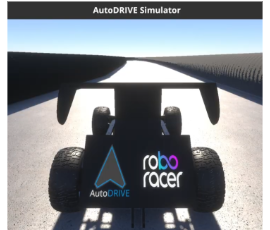
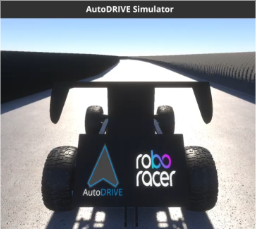
Uniform project thumbnails: trim padding, fixed frame

diff --git a/assets/style.css b/assets/style.css
@@ -232,3 +232,13 @@ footer {
   color: #555;
 }
 .blog-note p { margin: 4px 0; }
+
+/* project thumbnails: same frame for every project */
+.entry-thumb-fixed img {
+  width: 160px;
+  height: 150px;
+  object-fit: cover;
+}
+@media (max-width: 640px) {
+  .entry-thumb-fixed img { width: 100%; max-width: 320px; height: auto; aspect-ratio: 160 / 150; }
+}

diff --git a/_includes/entry.html b/_includes/entry.html
@@ -1,6 +1,6 @@
 {% assign e = include.entry %}
 <div class="entry">
-  <div class="entry-thumb">
+  <div class="entry-thumb{% if include.fixed_thumb %} entry-thumb-fixed{% endif %}">
     {% if e.image %}<img src="{{ e.image | relative_url }}" alt="">{% endif %}
   </div>
   <div class="entry-text">

diff --git a/research/index.html b/research/index.html
@@ -13,6 +13,6 @@ description: Publications and projects by Sathya (S K Swaminathan).
 <section>
   <h2>Projects</h2>
   {% for p in site.data.projects %}
-    {% include entry.html entry=p %}
+    {% include entry.html entry=p fixed_thumb=true %}
   {% endfor %}
 </section>
